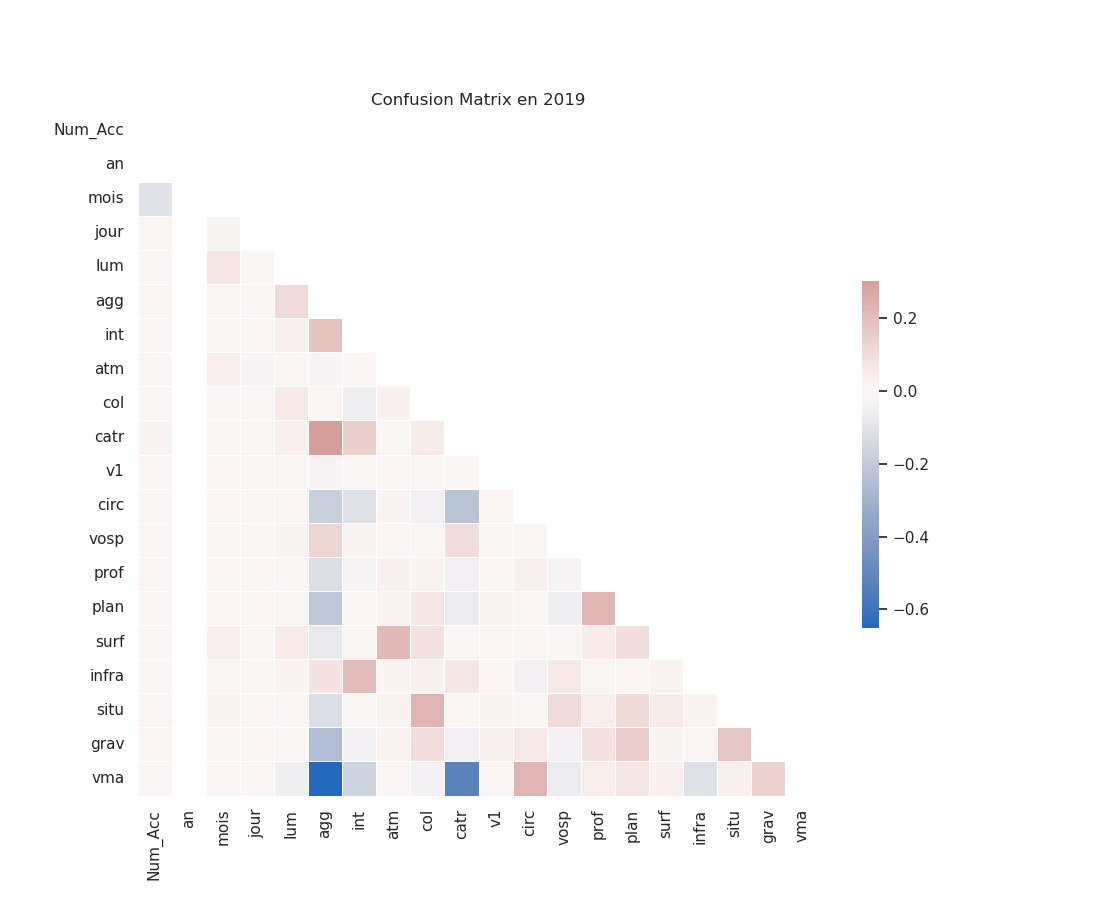
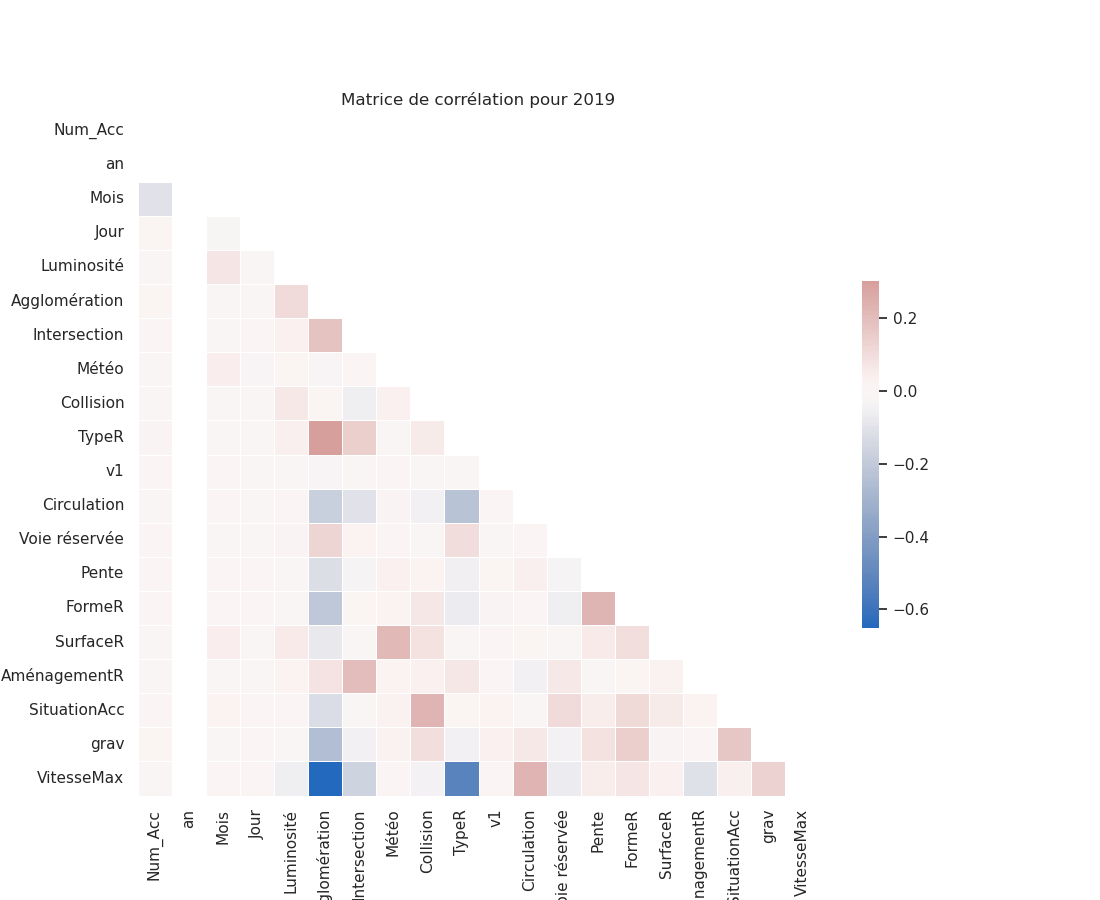
correl

diff --git a/Partie2_ML/confusion matrix only dummies.py b/Partie2_ML/confusion matrix only dummies.py
@@ -1,0 +1,244 @@
+import pandas as pd
+import statsmodels.api as sm
+import geopandas as gpd
+import matplotlib.pyplot as plt
+import numpy as np
+import seaborn as sns
+import scipy
+from scipy.stats import norm
+import pandas as pd
+
+
+path = "/home/onyxia/work/statapp_sujet26/"
+file_name1 = "dataset_complet_part_1.csv"
+file_name2 = "dataset_complet_part_2.csv"
+df1 = pd.read_csv(path + file_name1, sep=',', low_memory=False)
+df2 = pd.read_csv(path + file_name2, sep=',', low_memory=False)
+df = pd.concat([df1, df2])
+df = df.loc[df['an'] == 2019]
+df.replace(-1, pd.NA, inplace=True)
+
+
+
+#Dummy heure de pointe
+def is_peak_hour(hour_minute):
+    hour, minute = map(int, hour_minute.split(':'))
+    total_minutes = hour * 60 + minute
+    peak_hours = [(7, 0), (10, 0), (16, 30), (19, 30)]
+    for start, end in zip(peak_hours[:-1], peak_hours[1:]):
+        start_minutes = start[0] * 60 + start[1]
+        end_minutes = end[0] * 60 + end[1]
+        if start_minutes <= total_minutes < end_minutes:
+            return 1
+    return 0
+df['HP_ind'] = df['hrmn'].apply(is_peak_hour)
+
+#Dummy jour de semaine
+df['date'] = pd.to_datetime({'year': 2019, 'month': df['mois'], 'day': df['jour']})
+df['jour_de_semaine'] = df['date'].dt.day_name()
+df = pd.get_dummies(df, columns=['jour_de_semaine'], prefix='jour', dtype=int)
+
+
+
+#Dummy plage horaire
+'''def plage_horaire(heure):
+    if 5 <= heure < 12:
+        return 'matin'
+    elif 12 <= heure < 14:
+        return 'midi'
+    elif 14 <= heure < 18:
+        return 'après-midi'
+    elif 18 <= heure < 22:
+        return 'soir'
+    else:
+        return 'nuit'
+
+df['plage_horaire'] = df['hrmn'].apply(plage_horaire)
+df = pd.get_dummies(df, columns=['plage_horaire'], prefix='plage_horaire', dtype=int)'''
+
+
+#Dummy jour férié : 
+df['date'] = pd.to_datetime({'year': 2019, 'month': df['mois'], 'day': df['jour']})
+
+jours_feries_2019 = [
+    '2019-01-01', '2019-04-22', '2019-05-01', '2019-05-08', '2019-05-30', 
+    '2019-06-10', '2019-07-14', '2019-08-15', '2019-11-01', '2019-11-11', '2019-12-25'
+]
+
+df['jour_ferie'] = df['date'].isin(pd.to_datetime(jours_feries_2019)).astype(int)
+
+#Vacances scolaires en 2019
+vacances_2019 = [
+    # Vacances d'hiver
+    ('2019-02-16', '2019-03-03'),
+    ('2019-02-09', '2019-02-24'),
+    ('2019-02-23', '2019-03-10'),
+    # Vacances de printemps
+    ('2019-04-13', '2019-04-28'),
+    ('2019-04-06', '2019-04-22'),
+    ('2019-04-20', '2019-05-05'),
+    # Vacances d'été
+    ('2019-07-06', '2019-09-01'),
+    # Vacances de la Toussaint
+    ('2019-10-19', '2019-11-04'),
+    # Vacances de Noël
+    ('2019-12-21', '2019-12-31')
+]
+
+#Dummy vacances scolaires
+df['vacances_scolaires'] = 0
+for start, end in vacances_2019:
+    df.loc[(df['date'] >= start) & (df['date'] <= end), 'vacances_scolaires'] = 1
+
+#Dummy mois
+df['mois'] = df['mois'].replace({1.:'janvier',2.:'février',3.:'mars',4.:'avril',5.:'mai',6.:'juin',7.:'juillet',8.:'août',9.:'septembre',10.:'octobre',11.:'novembre',12.:'décembre'})
+df = pd.get_dummies(df, columns=['mois'], prefix='mois', dtype=int)
+
+# Dummy pour les variables spécifiées, en excluant les valeurs égales à -1 : celles qui ont pas de sens (valeur num )
+columns_to_dummy = ['lum', 'agg', 'int', 'atm', 'catr', 'circ', 'prof', 'plan', 'surf', 'situ', 'infra']
+ 
+for column in columns_to_dummy:
+        df = pd.get_dummies(df, columns=[column], prefix=[column], dtype=int)
+
+# Dummy département
+def assign_region(dep_code):
+    regions = {
+        '1': 'Auvergne-Rhône-Alpes',
+        '2': 'Hauts-de-France',
+        '3': 'Auvergne-Rhône-Alpes',
+        '4': 'PACA',
+        '5': 'PACA',
+        '6': 'PACA',
+        '7': 'Auvergne-Rhône-Alpes',
+        '8': 'Grand Est',
+        '9': 'Occitanie',
+        '10': 'Grand Est',
+        '11': 'Occitanie',
+        '12': 'Occitanie',
+        '13': 'PACA',
+        '14': 'Normandie',
+        '15': 'Auvergne-Rhône-Alpes',
+        '16': 'Nouvelle-Aquitaine',
+        '17': 'Nouvelle-Aquitaine',
+        '18': 'Centre-Val de Loire',
+        '19': 'Nouvelle-Aquitaine',
+        '2A': 'Corse',
+        '2B': 'Corse',
+        '21': 'Bourgogne-Franche-Comté',
+        '22': 'Bretagne',
+        '23': 'Nouvelle-Aquitaine',
+        '24': 'Nouvelle-Aquitaine',
+        '25': 'Bourgogne-Franche-Comté',
+        '26': 'Auvergne-Rhône-Alpes',
+        '27': 'Normandie',
+        '28': 'Centre-Val de Loire',
+        '29': 'Bretagne',
+        '30': 'Occitanie',
+        '31': 'Occitanie',
+        '32': 'Occitanie',
+        '33': 'Nouvelle-Aquitaine',
+        '34': 'Occitanie',
+        '35': 'Bretagne',
+        '36': 'Centre-Val de Loire',
+        '37': 'Centre-Val de Loire',
+        '38': 'Auvergne-Rhône-Alpes',
+        '39': 'Bourgogne-Franche-Comté',
+        '40': 'Nouvelle-Aquitaine',
+        '41': 'Centre-Val de Loire',
+        '42': 'Auvergne-Rhône-Alpes',
+        '43': 'Auvergne-Rhône-Alpes',
+        '44': 'Pays de la Loire',
+        '45': 'Centre-Val de Loire',
+        '46': 'Occitanie',
+        '47': 'Nouvelle-Aquitaine',
+        '48': 'Occitanie',
+        '49': 'Pays de la Loire',
+        '50': 'Normandie',
+        '51': 'Grand Est',
+        '52': 'Grand Est',
+        '53': 'Pays de la Loire',
+        '54': 'Grand Est',
+        '55': 'Grand Est',
+        '56': 'Bretagne',
+        '57': 'Grand Est',
+        '58': 'Bourgogne-Franche-Comté',
+        '59': 'Hauts-de-France',
+        '60': 'Hauts-de-France',
+        '61': 'Normandie',
+        '62': 'Hauts-de-France',
+        '63': 'Auvergne-Rhône-Alpes',
+        '64': 'Nouvelle-Aquitaine',
+        '65': 'Occitanie',
+        '66': 'Occitanie',
+        '67': 'Grand Est',
+        '68': 'Grand Est',
+        '69': 'Auvergne-Rhône-Alpes',
+        '70': 'Bourgogne-Franche-Comté',
+        '71': 'Bourgogne-Franche-Comté',
+        '72': 'Pays de la Loire',
+        '73': 'Auvergne-Rhône-Alpes',
+        '74': 'Auvergne-Rhône-Alpes',
+        '75': 'Île-de-France',
+        '76': 'Normandie',
+        '77': 'Île-de-France',
+        '78': 'Île-de-France',
+        '79': 'Nouvelle-Aquitaine',
+        '80': 'Hauts-de-France',
+        '81': 'Occitanie',
+        '82': 'Occitanie',
+        '83': 'PACA',
+        '84': 'PACA',
+        '85': 'Pays de la Loire',
+        '86': 'Nouvelle-Aquitaine',
+        '87': 'Nouvelle-Aquitaine',
+        '88': 'Grand Est',
+        '89': 'Bourgogne-Franche-Comté',
+        '90': 'Bourgogne-Franche-Comté',
+        '91': 'Île-de-France',
+        '92': 'Île-de-France',
+        '93': 'Île-de-France',
+        '94': 'Île-de-France',
+        '95': 'Île-de-France',
+        '971': 'Outre Mer',
+        '972': 'Outre Mer',
+        '973': 'Outre Mer',
+        '974': 'Outre Mer',
+        '976': 'Outre Mer',
+        '977' : 'Collectivité Outre Mer', 
+        '978' : 'Collectivité Outre Mer', 
+        '986' : 'Collectivité Outre Mer', 
+        '987' : 'Collectivité Outre Mer', 
+        '988' : 'Collectivité Outre Mer',
+        '2A' : 'Corse',
+        '2B' : 'Corse',
+
+    }
+    return regions.get(dep_code[:2], 'Autre')
+
+df['region'] = df['dep'].apply(assign_region)
+#j'ai verif tout a été fill out avec les régions (pas de valeurs manquantes ds région)
+
+df = pd.get_dummies(df, columns=['region'], prefix='region', dtype=int)
+
+# Enlever les colonnes spécifiées
+columns_to_drop = ['Num_Acc', 'an', 'jour', 'hrmn', 'col', 'dep','com', 'adr', 'gps', 'lat', 'long', 'voie', 'v1', 'v2', 'pr', 'pr1', 'vosp', 'lartpc', 'larrout', 'date']
+df.drop(columns=columns_to_drop, inplace=True)
+
+
+df_num = df.select_dtypes(include=['float64', 'int64'])
+df_num.head()
+plt.figure(figsize=(8, 6))
+sns.set_theme(style="white")
+corr = df_num.corr()
+mask = np.triu(np.ones_like(corr, dtype=bool))
+f, ax = plt.subplots(figsize=(11, 9))
+cmap = sns.color_palette("vlag", as_cmap=True)
+
+sns.heatmap(corr, mask=mask, cmap=cmap, vmax=.3, center=0,
+            square=True, linewidths=.5, cbar_kws={"shrink": .5})
+
+
+plt.title('Matrice de corrélation pour 2019 avec dummies seulement')
+plt.savefig(path+'Partie2_ML/'+'confusion_matrix_dummies_only.png')  # Enregistrer la matrice de confusion en tant qu'image
+plt.show()
+

diff --git a/Partie2_ML/matricecorrelation.py b/Partie2_ML/matricecorrelation.py
@@ -1,0 +1,107 @@
+import pandas as pd
+import seaborn as sns
+import matplotlib.pyplot as plt
+import numpy as np
+
+path = "/home/onyxia/work/statapp_sujet26/"
+file_name1 = "dataset_complet_part_1.csv"
+file_name2 = "dataset_complet_part_2.csv"
+df1 = pd.read_csv(path + file_name1, sep=',', low_memory=False)
+df2 = pd.read_csv(path + file_name2, sep=',', low_memory=False)
+df = pd.concat([df1, df2])
+df['an'] = df['an'].astype(int)
+
+# Convertir la colonne "grav" en valeurs binaires (0 ou 1)
+df['grav'] = df['grav'].replace({'1': 0, '2': 0, '3': 1, '4': 1, 1: 0, 2: 0, 3: 1, 4: 1}).astype(int)
+
+# Filtrer les données pour l'année 2019
+df = df[df['an'] == 2019]
+
+# Dummy heure de pointe
+def is_peak_hour(hour_minute):
+    hour, minute = map(int, hour_minute.split(':'))
+    total_minutes = hour * 60 + minute
+    peak_hours = [(7, 0), (9, 30), (16, 30), (19,0)]
+    for start, end in zip(peak_hours[:-1], peak_hours[1:]):
+        start_minutes = start[0] * 60 + start[1]
+        end_minutes = end[0] * 60 + end[1]
+        if start_minutes <= total_minutes < end_minutes:
+            return 1
+    return 0
+df['Heure de pointe (D)'] = df['hrmn'].apply(is_peak_hour)
+
+#Dummy jour de semaine
+df['date'] = pd.to_datetime({'year': 2019, 'month': df['mois'], 'day': df['jour']})
+df['Jour de semaine (D)'] = df['date'].dt.day_name()
+df = pd.get_dummies(df, columns=['Jour de semaine (D)'], prefix='jour', dtype=int)
+
+# Dummy jour férié
+jours_feries_2019 = [
+    '2019-01-01', '2019-04-22', '2019-05-01', '2019-05-08', '2019-05-30', 
+    '2019-06-10', '2019-07-14', '2019-08-15', '2019-11-01', '2019-11-11', '2019-12-25'
+]
+df['Jours fériés (D)'] = df['date'].isin(pd.to_datetime(jours_feries_2019)).astype(int)
+
+# Dummy vacances scolaires
+vacances_2019 = [
+    ('2019-02-16', '2019-03-03'),
+    ('2019-02-09', '2019-02-24'),
+    ('2019-02-23', '2019-03-10'),
+    ('2019-04-13', '2019-04-28'),
+    ('2019-04-06', '2019-04-22'),
+    ('2019-04-20', '2019-05-05'),
+    ('2019-07-06', '2019-09-01'),
+    ('2019-10-19', '2019-11-04'),
+    ('2019-12-21', '2019-12-31')
+]
+df['Vacances scolaires (D)'] = 0
+for start, end in vacances_2019:
+    df.loc[(df['date'] >= start) & (df['date'] <= end), 'Vacances scolaires (D)'] = 1
+
+
+# Créer un dictionnaire de mapping des anciens noms aux nouveaux noms
+nouveaux_noms = {
+    'lum': 'Luminosité',
+    'agg': 'Agglomération',
+    'int': 'Intersection',
+    'atm': 'Météo',
+    'col': 'Collision',
+    'dep': 'Département',
+    'catr': 'TypeR',
+    'circ': 'Circulation',
+    'nbv': 'Nb voies',
+    'vosp': 'Voie réservée',
+    'prof': 'Pente',
+    'plan': 'FormeR',
+    'surf': 'SurfaceR',
+    'infra': 'AménagementR',
+    'situ': 'SituationAcc',
+    'vma': 'VitesseMax'
+}
+
+# Utiliser le dictionnaire pour changer les noms des variables
+df.rename(columns=nouveaux_noms, inplace=True)
+
+
+columns_to_drop = ['Num_Acc', 'an', 'jour', 'hrmn','com', 'adr', 'gps', 'lat', 'long', 'voie', 'v1', 'v2', 'pr', 'pr1', 'lartpc', 'larrout', 'date']
+df.drop(columns=columns_to_drop, inplace=True)
+
+
+
+# Sélectionner les variables numériques
+df_num = df.select_dtypes(include=['float64', 'int64'])
+
+# Calculer la matrice de corrélation
+corr = df_num.corr()
+
+# Tracer la heatmap de la matrice de corrélation
+plt.figure(figsize=(12, 10))
+sns.set_theme(style="white")
+mask = np.triu(np.ones_like(corr, dtype=bool))
+
+sns.heatmap(corr, mask=mask, cmap="vlag", vmax=.3, center=0,
+            square=True, linewidths=.5, cbar_kws={"shrink": .5})
+
+plt.title('Matrice de corrélation pour 2019 avec variables indicatrices')
+plt.savefig(path + 'Partie2_ML/' + 'confusion_matrix_with_dummies.png')  # Enregistrer la matrice de corrélation en tant qu'image
+plt.show()

diff --git a/Partie2_ML/confusion matrix.py b/Partie2_ML/confusion matrix.py
@@ -21,7 +21,33 @@ df['grav'] = df['grav'].replace({'1': 0, '2': 0, '3': 1, '4': 1,1: 0, 2: 0, 3: 1
 # Filtrer les données pour l'année 2019
 df = df[df['an'] == 2019]
 
-df_num = df.select_dtypes(include = ['float64', 'int64'])
+# Créer un dictionnaire de mapping des anciens noms aux nouveaux noms
+nouveaux_noms = {
+    'mois': 'Mois',
+    'jour': 'Jour',
+    'hrmn': 'Heure',
+    'lum': 'Luminosité',
+    'agg': 'Agglomération',
+    'int': 'Intersection',
+    'atm': 'Météo',
+    'col': 'Collision',
+    'dep': 'Département',
+    'catr': 'TypeR',
+    'circ': 'Circulation',
+    'nbv': 'Nb voies',
+    'vosp': 'Voie réservée',
+    'prof': 'Pente',
+    'plan': 'FormeR',
+    'surf': 'SurfaceR',
+    'infra': 'AménagementR',
+    'situ': 'SituationAcc',
+    'vma': 'VitesseMax'
+}
+
+# Utiliser le dictionnaire pour changer les noms des variables
+df.rename(columns=nouveaux_noms, inplace=True)
+
+df_num = df.select_dtypes(include=['float64', 'int64'])
 df_num.head()
 plt.figure(figsize=(8, 6))
 sns.set_theme(style="white")
@@ -34,6 +60,6 @@ sns.heatmap(corr, mask=mask, cmap=cmap, vmax=.3, center=0,
             square=True, linewidths=.5, cbar_kws={"shrink": .5})
 
 
-plt.title('Confusion Matrix en 2019')
-plt.savefig(path+'Partie2_ML/'+'confusion_matrix.png')  # Save the confusion matrix as an image
+plt.title('Matrice de corrélation pour 2019')
+plt.savefig(path+'Partie2_ML/'+'confusion_matrix.png')  # Enregistrer la matrice de confusion en tant qu'image
 plt.show()
